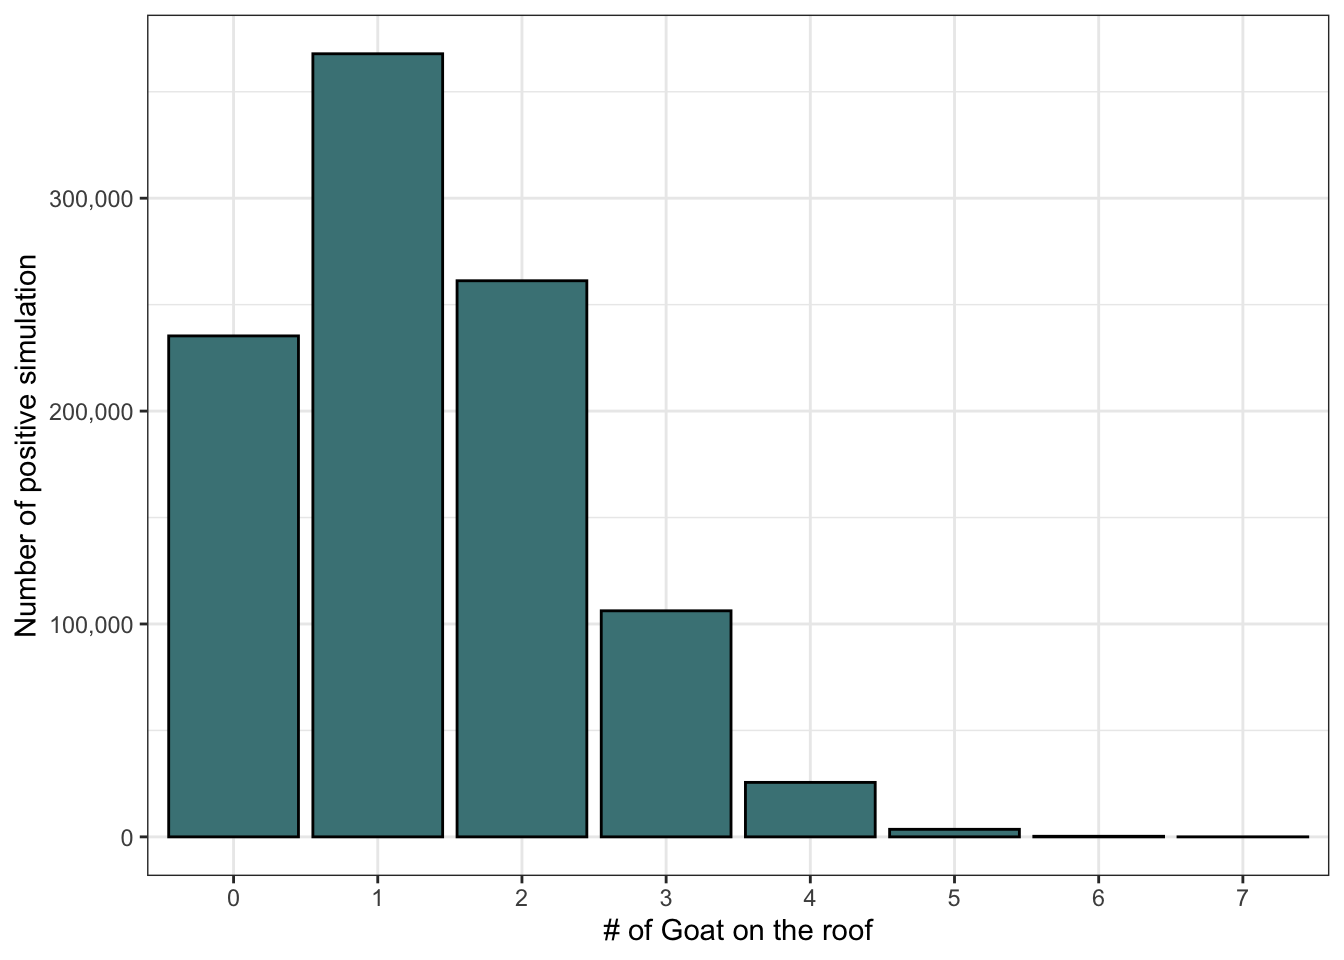
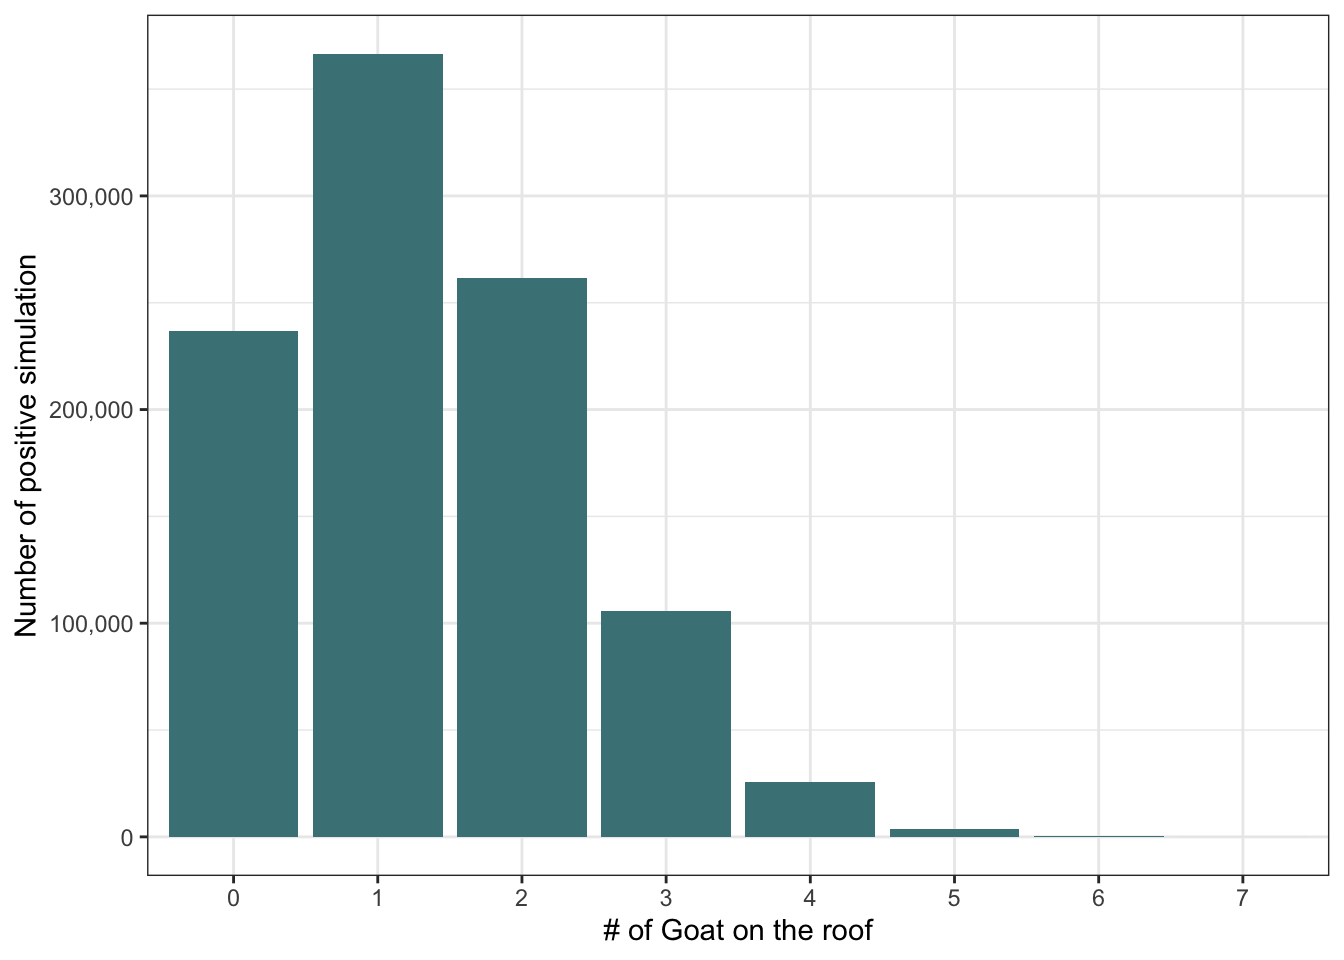
update goat with collaboration plot

diff --git a/content/post/2024-01-04-unraveling-the-mystery-of-the-goat-tower-a-probabilistic-approach/index.html b/content/post/2024-01-04-unraveling-the-mystery-of-the-goat-tower-a-probabilistic-approach/index.html
@@ -80,23 +80,43 @@ number_goat_floar &lt;- 10
 goat_on_roof &lt;- replicate(simulations, count_got_on_roof(x=number_goat_floar))
 probability &lt;- sum(goat_on_roof == 0) / length(goat_on_roof) 
 probability</code></pre>
-<pre><code>## [1] 0.235317</code></pre>
+<pre><code>## [1] 0.23661</code></pre>
 <p>This result indicates that there is a probability, precisely calculated as 24%, that no goats will end up on the roof.</p>
 </div>
 <div id="visual-representation" class="section level3">
 <h3><strong>Visual Representation</strong></h3>
 <p>The simulation approach offers a distinct advantage over traditional numerical methods. It not only determines the probability of none of the goats on the roof but also allows us to easily compute the average number of goats that end up on the roof. This calculation can be performed with the following simple steps:</p>
 <pre class="r"><code>mean(goat_on_roof)</code></pre>
-<pre><code>## [1] 1.330666</code></pre>
+<pre><code>## [1] 1.329228</code></pre>
 <p>We can visualize the distribution using <strong><code>ggplot</code></strong>:</p>
 <pre class="r"><code>tibble(goat_on_roof = as.factor(goat_on_roof)) %&gt;% 
     group_by(goat_on_roof) %&gt;% 
     count(goat_on_roof, sort = TRUE) %&gt;% 
     ggplot(aes(goat_on_roof, n))+
-    geom_col(fill = &quot;#488286&quot;, color =&#39;black&#39;) +
+    geom_col(fill = &quot;#488286&quot;) +
     scale_y_continuous(labels = scales::comma) +
     labs(x= &quot;# of Goat on the roof&quot;, y= &quot;Number of positive simulation&quot;)</code></pre>
 <p><img src="{{< blogdown/postref >}}index_files/figure-html/visualization-1.png" width="672" /></p>
+<p>Another significant advantage of using simulation lies in its flexibility. We can easily alter the number of goats and floors and observe how these changes affect the outcome. Intriguingly, our simulations reveal that even when the proportion of floors to goats remains constant, increasing their numbers leads to a higher likelihood of goats ending up on the roof. This finding is thought-provoking. It suggests that in situations where resources are seemingly sufficient, the sheer number of individuals involved can still lead to resource shortages without effective collaboration. This mirrors a real-world scenario: even in the presence of ample resources, the lack of cooperation can result in many individuals being left without what they need. It highlights the importance of collaboration, especially in large groups, to ensure equitable resource distribution.</p>
+<pre class="r"><code>multi_sim &lt;- function(number_goat_floar){
+    goat_on_roof &lt;- replicate(1e+05, count_got_on_roof(x=number_goat_floar))
+    res &lt;- tibble(goat_on_roof = as.factor(goat_on_roof),
+                  number_goat_floar = as.factor(number_goat_floar))
+    return(res)
+}
+multi_goat &lt;- map(seq(10, 100, 10), multi_sim)
+multi_goat &lt;- reduce(multi_goat, bind_rows) 
+
+multi_goat %&gt;% 
+    group_by(goat_on_roof, number_goat_floar) %&gt;% 
+    count(sort = TRUE) %&gt;% 
+    ggplot(aes(goat_on_roof, n, fill = number_goat_floar))+
+    geom_col(position = position_dodge()) +
+    scale_y_continuous(labels = scales::comma)  +
+    scale_fill_brewer(palette = &quot;Set3&quot;) +
+    labs(x = &quot;# of goat on the roof&quot;, y = &quot;Number of positive simulation&quot;,
+         fill = &quot;# of goats \n and floors&quot;)</code></pre>
+<p><img src="{{< blogdown/postref >}}index_files/figure-html/unnamed-chunk-3-1.png" width="672" /></p>
 </div>
 <div id="conclusion" class="section level3">
 <h3><strong>Conclusion</strong></h3>
